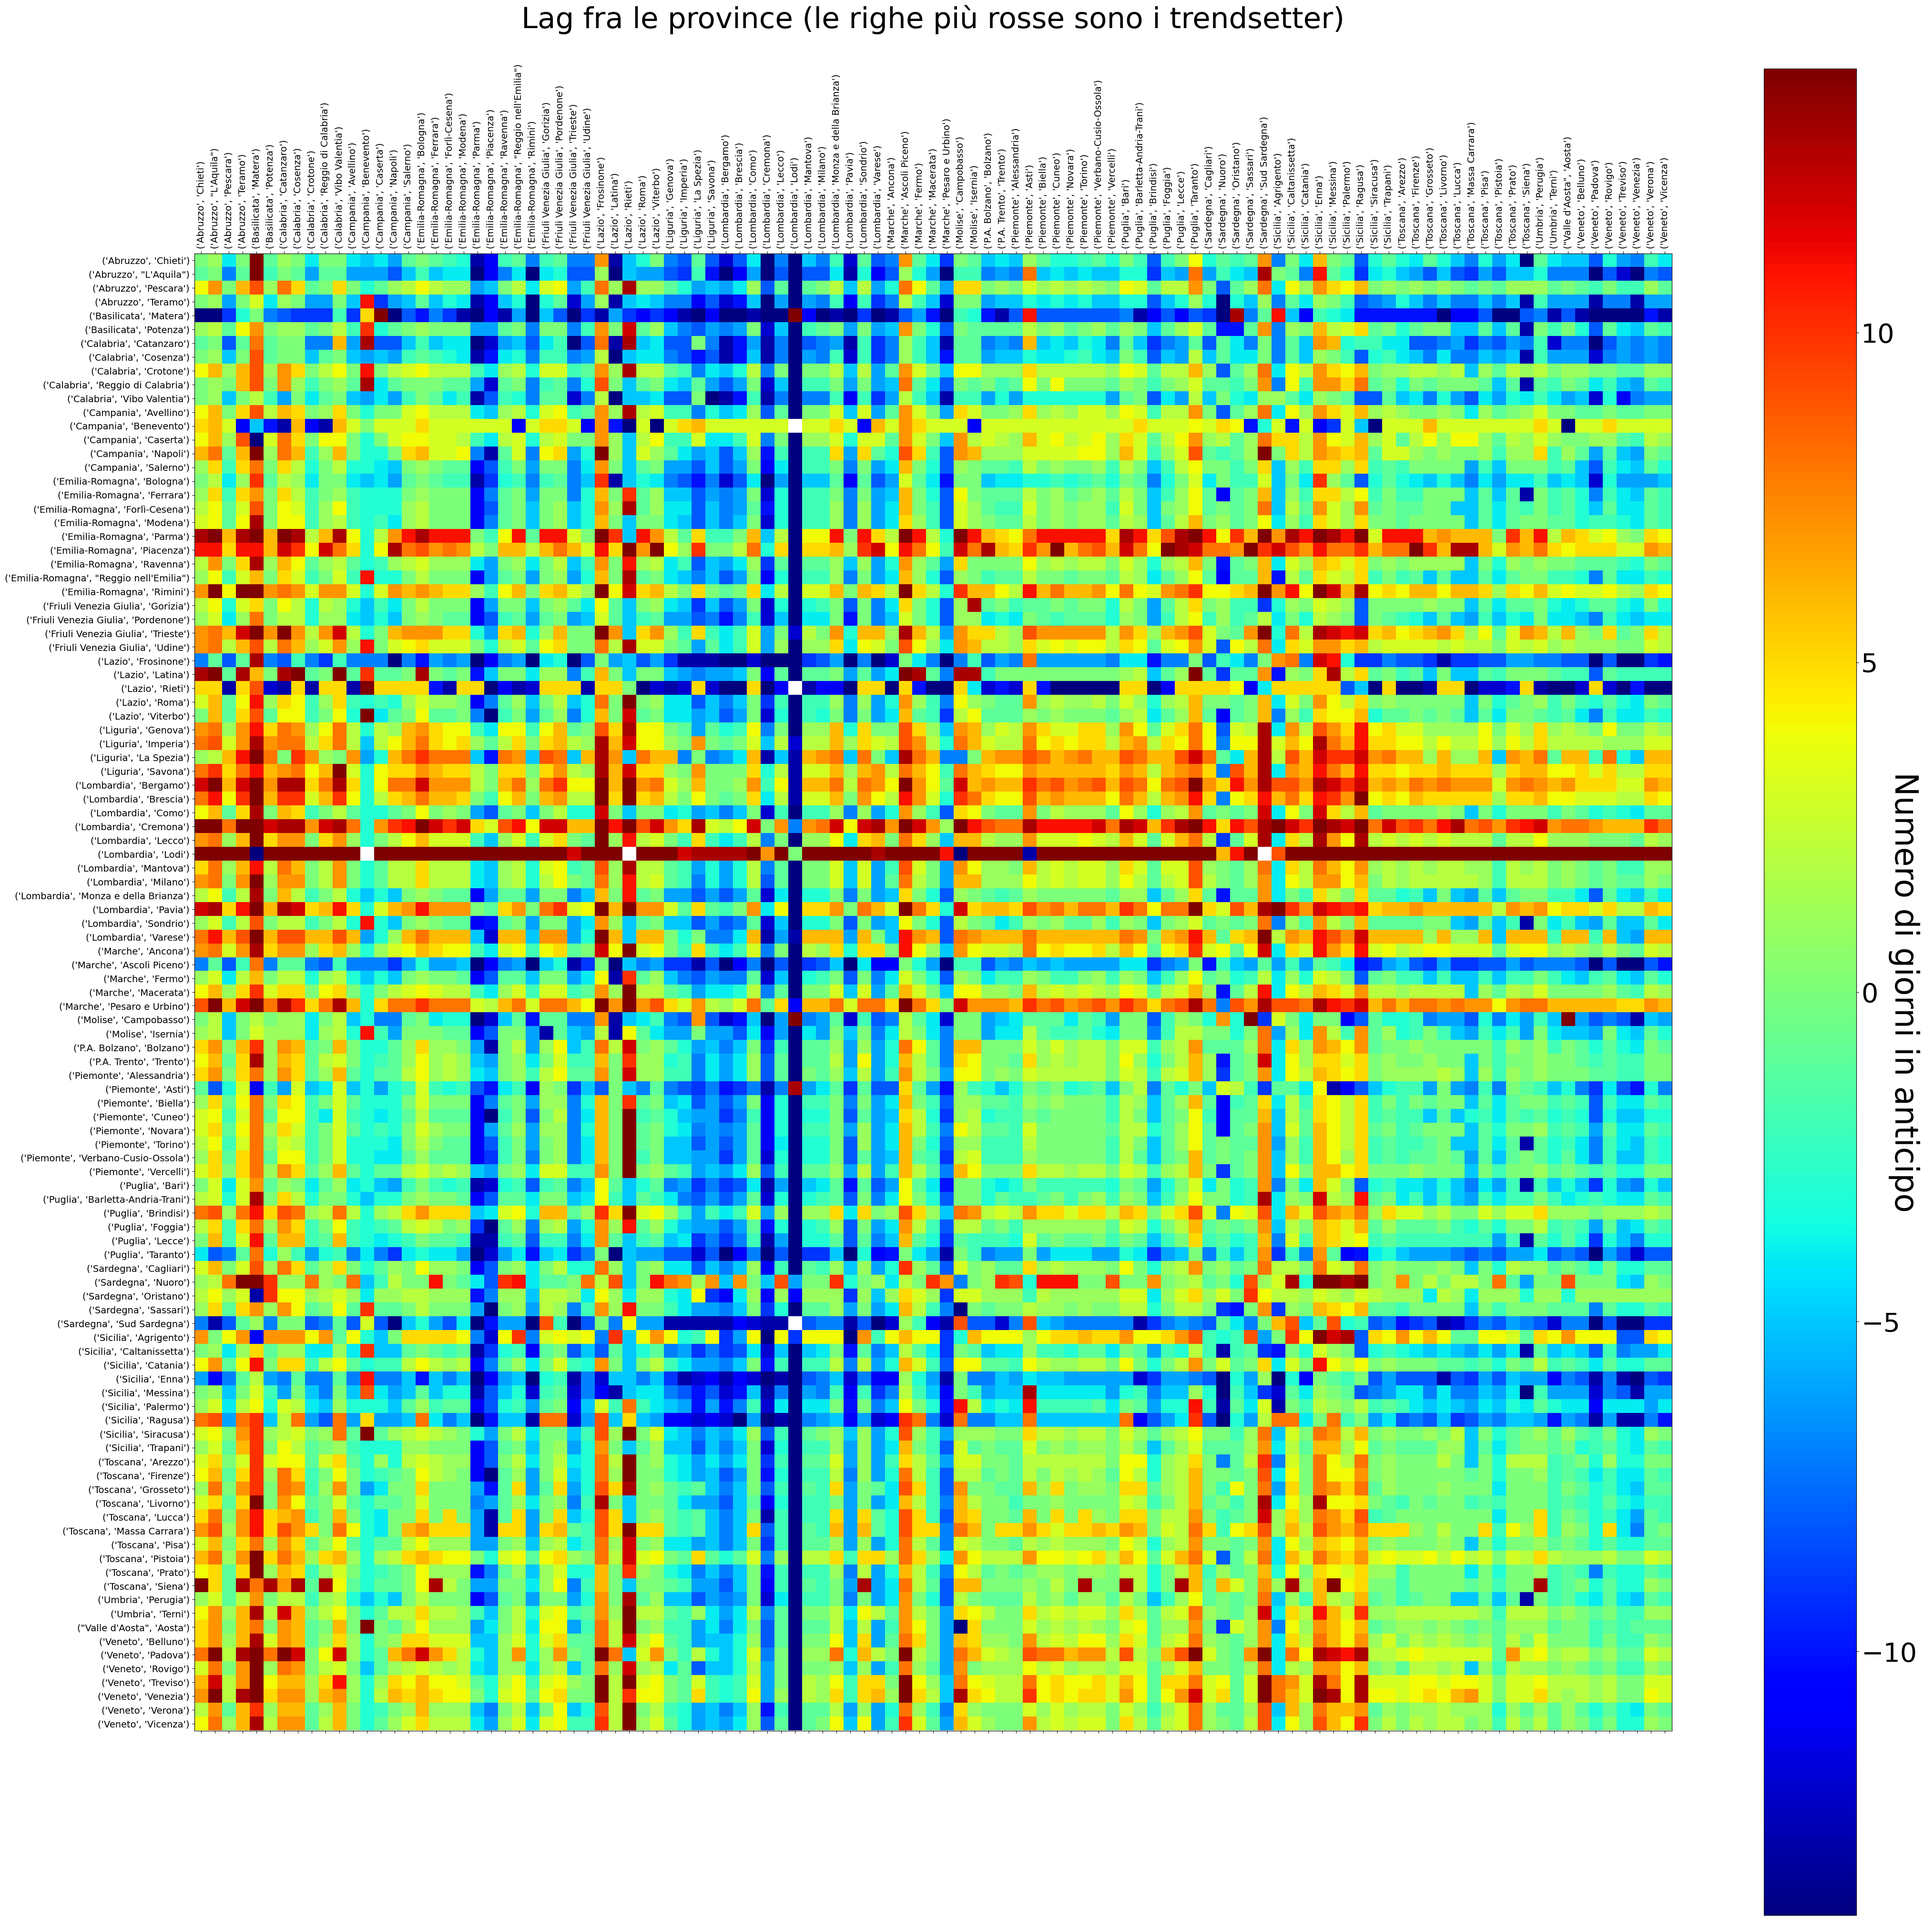
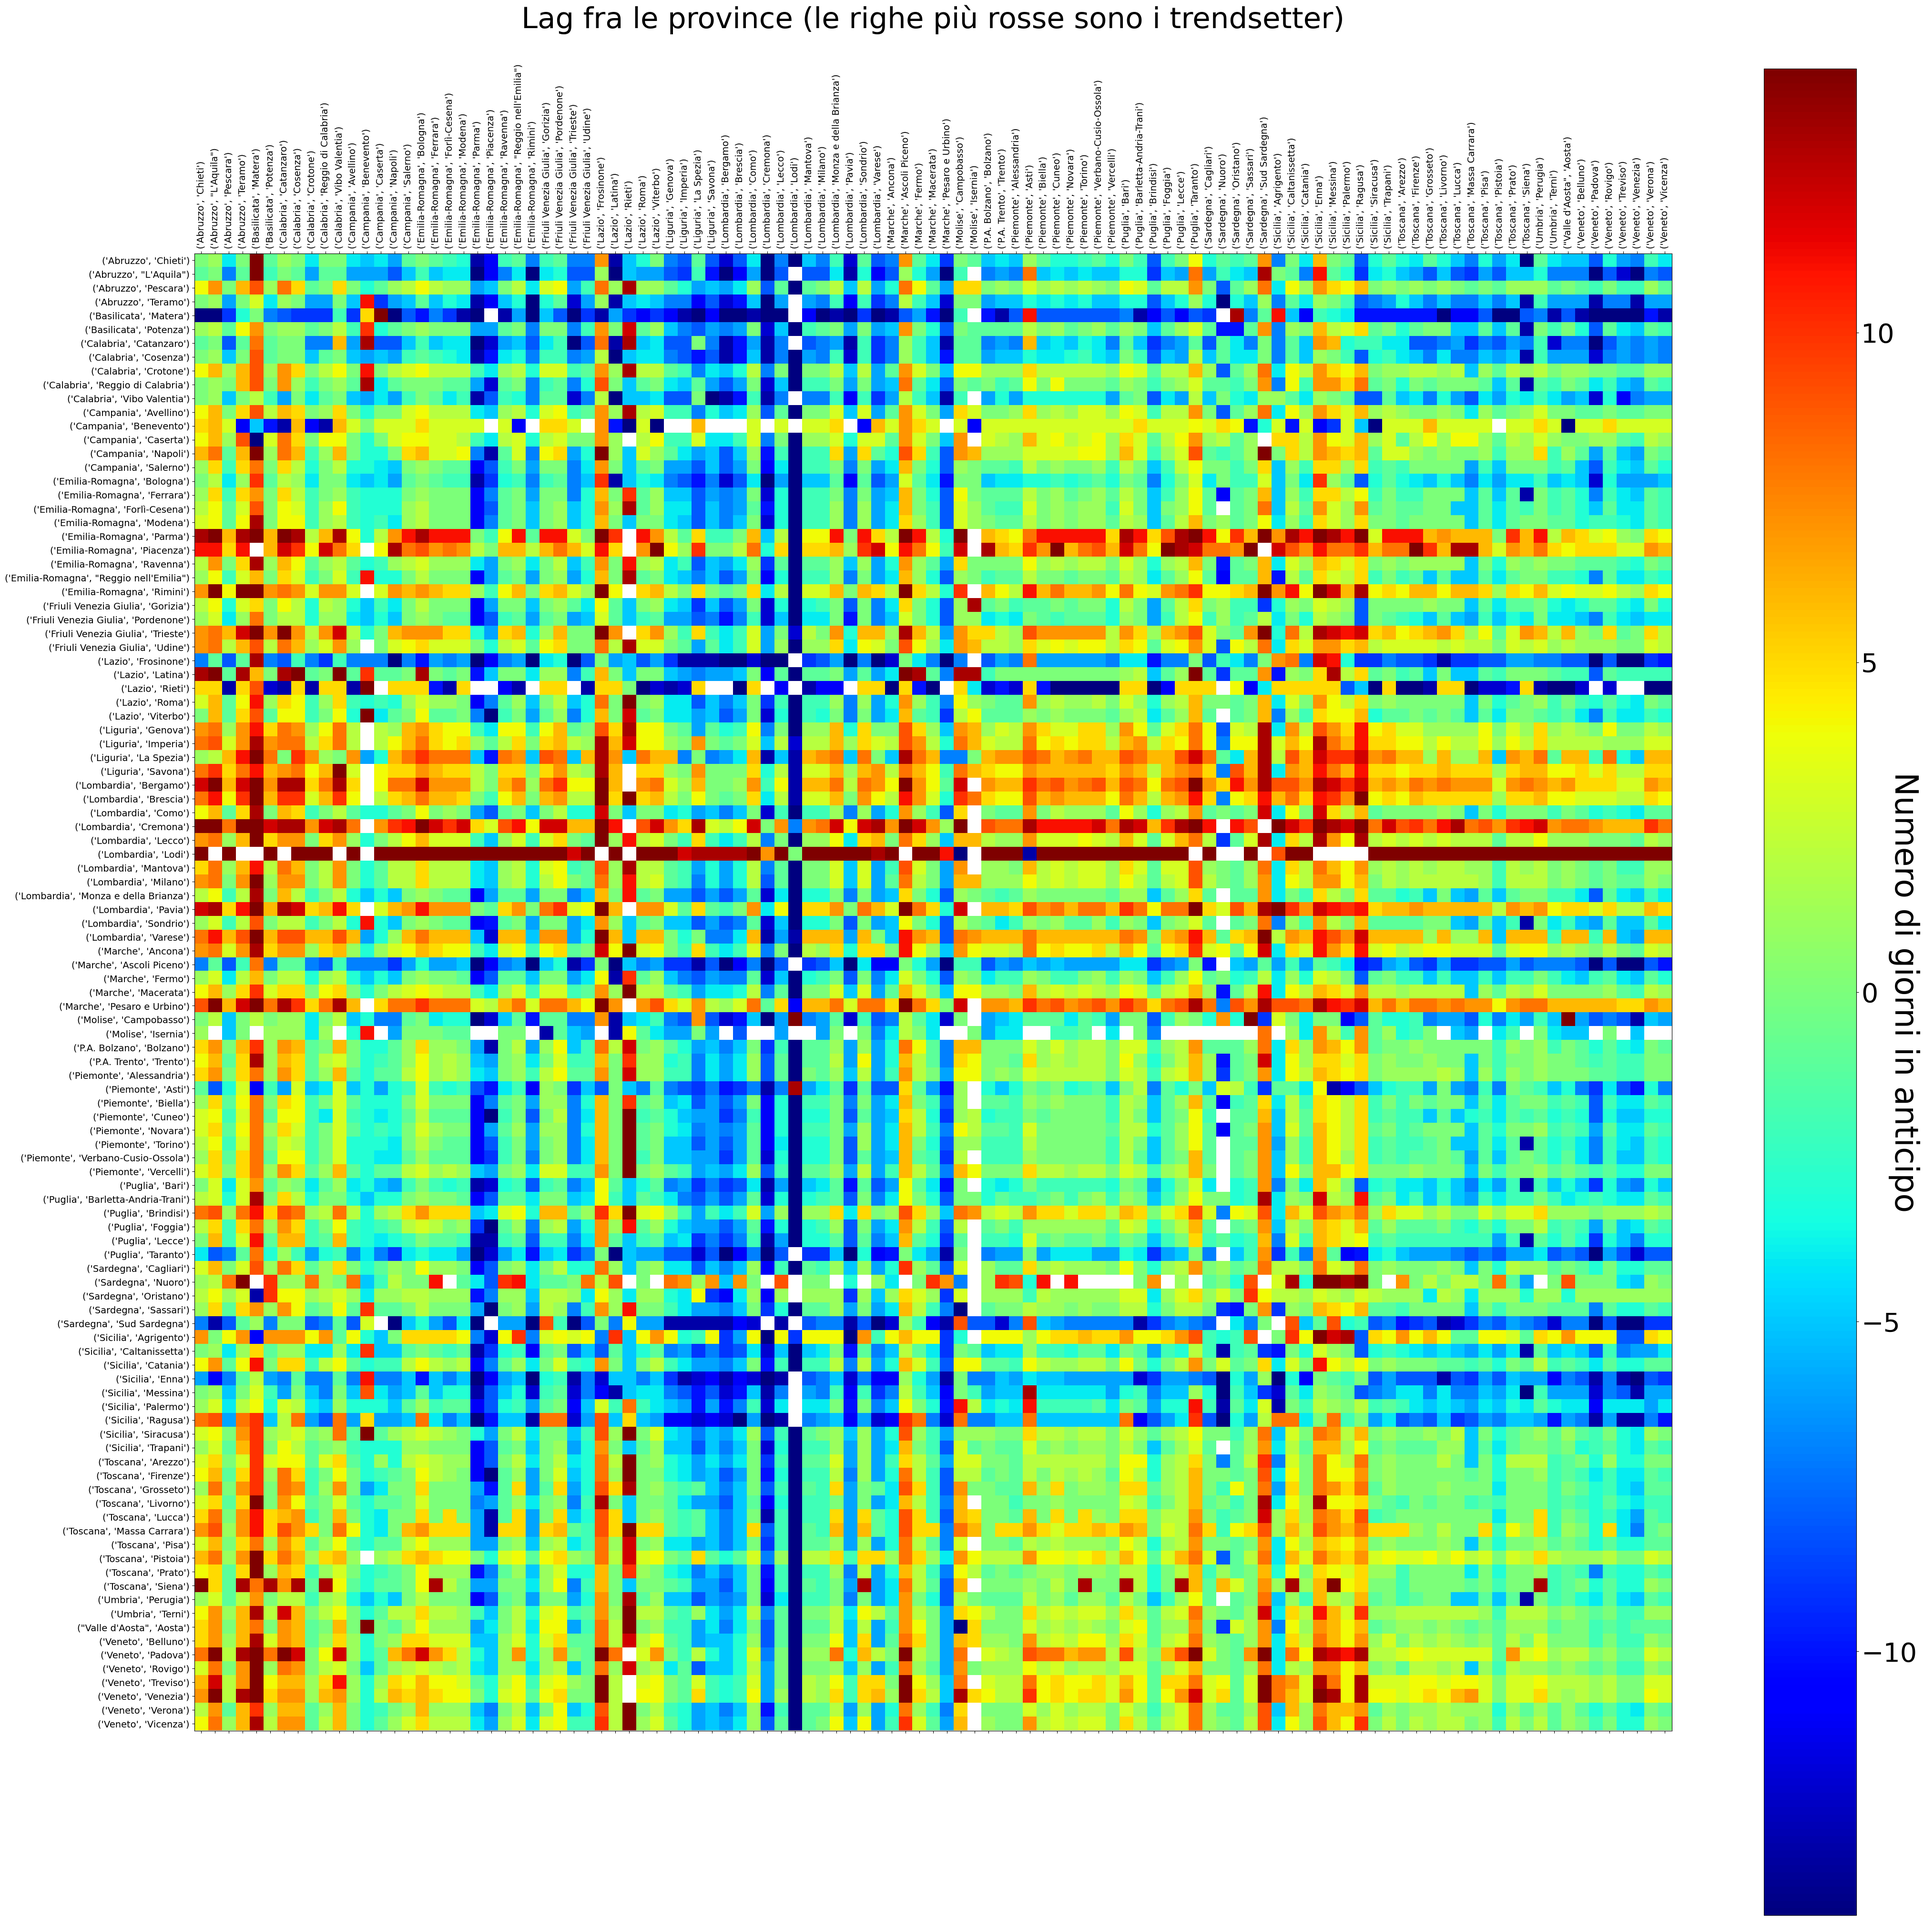
added csv output

diff --git a/covid19it/pipelines/provincia.py b/covid19it/pipelines/provincia.py
@@ -1,6 +1,7 @@
 import matplotlib.pyplot as plt
 from datetime import timedelta
 from numpy import array, float64
+from pandas import DataFrame
 from covid19it.data.provincia import DataProvincia
 from covid19it.models.sir import ModelSIR
 from covid19it.models.logistic import ModelLogistic
@@ -38,7 +39,7 @@ def desc_provincia(path_output=dict_config["PATH_OUT"]):
     f.savefig(path_output + "/plot_correlazioni_14_province.png", bbox_inches = "tight")
 
     df = obj_data.data.groupby(['data','denominazione_regione', 'denominazione_provincia'])['totale_casi_confermati_provincia'].mean().unstack(fill_value=0, level=0).transpose()
-    M_lag = get_corr_lag_matrix(M=array(df), min_corr=0.90, max_lag=14, n_jobs=4)
+    M_lag = get_corr_lag_matrix(M=array(df), min_corr=0.95, max_lag=14, n_jobs=4)
     f = plt.figure(figsize=(50, 50))
     plt.matshow(float64(M_lag), fignum=f.number, cmap='jet')
     plt.xticks(range(df.shape[1]), df.columns, fontsize=14, rotation=90)
@@ -48,3 +49,5 @@ def desc_provincia(path_output=dict_config["PATH_OUT"]):
     cb.set_label('Numero di giorni in anticipo', rotation=270, size=48)
     plt.title('Lag fra le province (le righe più rosse sono i trendsetter)', fontsize=44, y=1.15)
     f.savefig(path_output + "/plot_lag_province.png", bbox_inches = "tight")
+    df_lag = DataFrame(M_lag, index=df.columns, columns=df.columns)
+    df_lag.to_csv(path_output + "/csv_lag_province.csv", sep=";")
